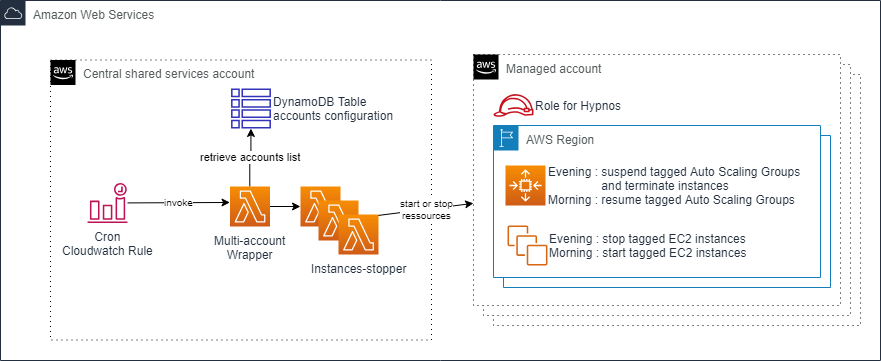
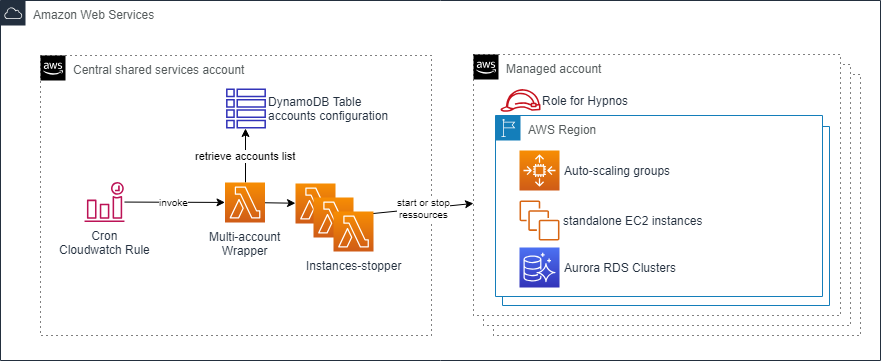
add support of Aurora RDS clusters

diff --git a/hypnos-central.py b/hypnos-central.py
@@ -29,6 +29,7 @@ def lambda_handler(event, context):
         print("Number of autoscalings concerned by instance termination : %s" % (len(asgNameListToStart)))
         print("AutoScalingGroups concerned by instance termination  : %s" % (asgNameListToStart))
         returnCode = resumeAsgList(session, asgNameListToStart)
+
         # start all single instances tagged to running
         instanceIdListToStart = retrieveTaggedInstancesList(session, tag_key = 'WorkingHoursState', tag_value = 'running')
         if len(instanceIdListToStart) > 0:
@@ -38,11 +39,15 @@ def lambda_handler(event, context):
                 returnCode=False
             else:
                 print("No EC2 instance to start.")
+
+        # start all RDS clusters tagged to started
+        rdsClusterListToStart = listTaggedRdsClusters(session, tag_key = 'WorkingHoursState', tag_value = 'running')
+        startRdsClusters(session, rdsClusterListToStart)
     elif action == "stop":
         # suspends tagged ASG activity and terminates their linked instances
         asgNameListToStop = retreiveTaggedAsgList(session, tag_key = 'WorkingHoursState', tag_value = 'stopped')
-        returnCode=suspendAsgList(session, asgNameList)
-        instancesToTerminate = retreiveInstancesToTerminateList(session, asgNameList)
+        returnCode=suspendAsgList(session, asgNameListToStop)
+        instancesToTerminate = retreiveInstancesToTerminateList(session, asgNameListToStop)
         # terminate instances linked to a concerned autoscaling group
         if len(instancesToTerminate) > 0:
             print("Terminating %s instances" % (len(instancesToTerminate)))
@@ -51,7 +56,8 @@ def lambda_handler(event, context):
                 returnCode=False
         else:
             print("No EC2 instance to terminate.")
-        # stop all single instances tagged to stopped
+
+        # stop all single EC2 instances tagged to stopped
         instanceIdListToStop = retrieveTaggedInstancesList(session, tag_key = 'NonWorkingHoursState', tag_value = 'stopped')
         if len(instanceIdListToStop) > 0:
             print("Number of EC2 instances to stop: %s " % (len(instanceIdListToStop)))
@@ -60,16 +66,26 @@ def lambda_handler(event, context):
                 returnCode=False
         else:
             print("No EC2 instance to stop.")
+
+        # stop all RDS clusters tagged to stopped
+        rdsClusterListToStop = listTaggedRdsClusters(session, tag_key = 'NonWorkingHoursState', tag_value = 'stopped')
+        stopRdsClusters(session, rdsClusterListToStop)
     elif action == "list":
         # dryrun only
         asgNameListToStart = retreiveTaggedAsgList(session, tag_key = 'WorkingHoursState', tag_value = 'running')
         asgNameListToStop = retreiveTaggedAsgList(session, tag_key = 'NonWorkingHoursState', tag_value = 'stopped')
-        instanceIdListToStart = retrieveTaggedInstancesList(session, tag_key = 'WorkingHoursState', tag_value = 'running')
-        instanceIdListToStop = retrieveTaggedInstancesList(session, tag_key = 'NonWorkingHoursState', tag_value = 'stopped')
         print("%s autoscaling groups concerned by NonWorkingHours stop : %s" % (len(asgNameListToStop), asgNameListToStop))
         print("%s autoscaling groups concerned by WorkingHours start : %s" % (len(asgNameListToStart), asgNameListToStart))
+
+        instanceIdListToStart = retrieveTaggedInstancesList(session, tag_key = 'WorkingHoursState', tag_value = 'running')
+        instanceIdListToStop = retrieveTaggedInstancesList(session, tag_key = 'NonWorkingHoursState', tag_value = 'stopped')
         print("%s EC2 instances concerned for NonWorkingHours stop : %s" % (len(instanceIdListToStop), instanceIdListToStop))
         print("%s EC2 instances concerned for WorkingHours start : %s" % (len(instanceIdListToStart), instanceIdListToStart))
+
+        rdsClusterListToStart = listTaggedRdsClusters(session, tag_key = 'WorkingHoursState', tag_value = 'running')
+        rdsClusterListToStop = listTaggedRdsClusters(session, tag_key = 'NonWorkingHoursState', tag_value = 'stopped')
+        print("%s RDS clusters concerned for NonWorkingHours stop : %s" % (len(rdsClusterListToStop), extractIdentifiersFromRdsClusterList(rdsClusterListToStop)))
+        print("%s RDS clusters concerned for WorkingHours start : %s" % (len(rdsClusterListToStart), extractIdentifiersFromRdsClusterList(rdsClusterListToStart)))
     return {
         'Return status' : returnCode
     }
@@ -131,25 +147,23 @@ def retreiveTaggedAsgList(session, tag_key = 'none', tag_value = 'none'):
 
     client = session.client('autoscaling')
     paginator = client.get_paginator('describe_auto_scaling_groups')
-    page_iterator = paginator.paginate(PaginationConfig={'PageSize': 100})
+    page_iterator = paginator.paginate()
 
     asgNameList=[]
     filtered_asgs = page_iterator.search('AutoScalingGroups[] | [?contains(Tags[?Key==`{}`].Value, `{}`)]'.format(tag_key,tag_value))
     for asg in filtered_asgs:
       asgNameList.append(asg['AutoScalingGroupName'])
-
     return asgNameList
 
 def retreiveAllAsgList(session):
 
     client = session.client('autoscaling')
-    response = client.describe_auto_scaling_groups(MaxRecords=100)
-    as_groups = response.get('AutoScalingGroups')
+    paginator = client.get_paginator('describe_auto_scaling_groups')
+    asg_iterator = paginator.paginate()
 
     asgNameList=[]
-    for asg in as_groups:
+    for asg in asg_iterator:
         asgNameList.append(asg.get('AutoScalingGroupName'))
-        
     return asgNameList
 
 def retreiveInstancesToTerminateList(session, asgNameList):
@@ -192,9 +206,9 @@ def stopInstances(session, ec2instanceIds):
     # Pay attention here because using filter with empty list will return all the instances !!!
     if ec2instanceIds:
         ec2 = session.resource('ec2')
-        print("Request to stop following instance Ids : %s" %(ec2instanceIds))
-        filtered_instances=ec2.instances.filter(InstanceIds=ec2instanceIds)
-        filtered_instances.stop()
+        print("Request to stop the following instances : %s" %(ec2instanceIds))
+        runningInstances = ec2.instances.filter(InstanceIds=ec2instanceIds, Filters=[{'Name': 'instance-state-name', 'Values': ['running']}])
+        runningInstances.stop()
     else:
         print("No instance to stop")
 
@@ -203,18 +217,18 @@ def startInstances(session, ec2instanceIds):
     # Pay attention here because using filter with empty list will return all the instances !!!
     if ec2instanceIds:
         ec2 = session.resource('ec2')
-        print("Request to start following instance Ids : %s" %(ec2instanceIds))
-        filtered_instances=ec2.instances.filter(InstanceIds=ec2instanceIds)
-        filtered_instances.start()
+        print("Request to start the following instances : %s" %(ec2instanceIds))
+        stoppedInstances=ec2.instances.filter(InstanceIds=ec2instanceIds, Filters=[{'Name': 'instance-state-name', 'Values': ['stopped']}])
+        stoppedInstances.start()
     else:
-        print("No instance to stop")
+        print("No instance to start")
 
 def terminateInstances(session, ec2instanceIds):
 
     # Pay attention here because using filter with empty list will return all the instances !!!
     if ec2instanceIds:
         ec2 = session.resource('ec2')
-        print("Request to terminate following instance Ids : %s" %(ec2instanceIds))
+        print("Request to terminate the following instance Ids : %s" %(ec2instanceIds))
         filtered_instances=ec2.instances.filter(InstanceIds=ec2instanceIds)
         filtered_instances.terminate()
     else:
@@ -229,3 +243,46 @@ def isExistsAsg(session, asgName):
     else:
         return True
 
+def stopRdsClusters(session, rdsClusters):
+    client = session.client('rds')
+    for rdsCluster in rdsClusters:
+        # it is not accepted to stop a cluster in a Status not Available
+        if rdsCluster['Status'] == "Available":
+            print("Stopping %s RDS cluster" % (rdsCluster['DBClusterIdentifier']))
+            response = client.stop_db_cluster(DBClusterIdentifier=rdsCluster['DBClusterIdentifier'])
+        else:
+            print("%s RDS cluster not in Available status => no stop action" % (rdsCluster['DBClusterIdentifier']))
+
+def startRdsClusters(session, rdsClusters):
+    client = session.client('rds')
+    for rdsCluster in rdsClusters:
+        # it is not accepted to start a cluster in a Status not Stopped
+        if rdsCluster['Status'] == "Stopped":
+            print("Starting %s RDS cluster" % (rdsCluster['DBClusterIdentifier']))
+            response = client.start_db_cluster(DBClusterIdentifier=rdsCluster['DBClusterIdentifier'])
+        else:
+            print("%s RDS cluster not in Stopped status => no start action" % (rdsCluster['DBClusterIdentifier']))
+
+def filterRdsClustersByStatus(rdsClusters, Status="none"):
+    filteredRdsCluster=[]
+    for rdsCluster in rdsClusters:
+        if rdsCluster['Status'] == Status:
+            filteredRdsClusterList.append(rdsCluster)
+    return filteredRdsClusterList
+
+def listTaggedRdsClusters(session, tag_key = 'none', tag_value = 'none'):
+
+    client = session.client('rds')
+    dbs = client.describe_db_clusters()
+
+    rdsIdentifierList=[]
+    for db in dbs['DBClusters']:
+        tagresponse = client.list_tags_for_resource(ResourceName=db['DBClusterArn'])
+        taglist = tagresponse['TagList']
+        for tag in taglist:
+            if tag['Key'] == tag_key and tag['Value'] == tag_value:
+                rdsIdentifierList.append(db)
+    return rdsIdentifierList
+
+def extractIdentifiersFromRdsClusterList(rdsClusters):
+    return [ rdsCluster['DBClusterIdentifier'] for rdsCluster in rdsClusters ]

diff --git a/hypnos-wrapper.py b/hypnos-wrapper.py
@@ -57,7 +57,7 @@ def lambda_handler(event, context):
         end=datetime.strptime(endWorkingHoursUtc,'%H:%M')
         now_string=datetime.now().strftime('%H:%M')
         now=datetime.strptime(now_string,'%H:%M')
-        delta=timedelta(minutes=5)
+        delta=timedelta(minutes=15)
         
         # determine the action to have depending on the incoming parameters
         print("Determining action for accountId %s for now at %s with begin %s and end %s (UTC hours)" % (accountId, now.strftime('%H:%M'), begin.strftime('%H:%M'), end.strftime('%H:%M')))

diff --git a/README.md b/README.md
@@ -9,16 +9,14 @@ AWS Hypnos is capable to stop AWS resources during non-business hours for costs 
 More precisely, at evening :
 - suspends auto-scaling groups activity and terminates the instances
 - stops standalone EC2 instances
+- stops Aurora RDS clusters
 
 In the morning of business day :
 - resumes the auto-scaling groups activity, which triggers the new instances creation
 - starts standalone EC2 instances 
+- starts Aurora RDS clusters
 
-Hypnos handles all the regions of the target accounts. It works for multiple accounts : just add them in the file stored in S3.
-
-It is also capable of two modes :
-- all : handles of ressources of the account
-- taggued : only looks for tagged ressources and avoid the other ones 
+Hypnos works for a list of AWS accounts and will handle all the regions of the account.
 
 ## Content
 
@@ -51,7 +49,6 @@ The information per item in the DynamoDB table must be :
 The Lambda needs one parameter :
 - mode : use "run" to perforn actions or "dryrun" to just list actions and concerned ressources.
 
-
 ### Central Lambda
 
 The business lambda assumes a role on the external child account and performs the stop activity.
@@ -63,11 +60,13 @@ The Lambda needs three parameters :
 
 For a stop action, Hypnos Lambda :
 - looks for tagged autoscaling groups, suspends them and terminates all the attached instances
-- looks for tagged EC2 instances and stops them
+- looks for tagged EC2 instances in "running" status and stops them
+- looks for tagged Aurora RDS clusters in "Available" status and them
 
 For a start action, Hypnos Lambda :
 - looks for concerned autoscaling groups and resumes them. Then, the ASG is launching instances corresponding to the Desired capacity setting
-- looks for tagged EC2 instances and starts them
+- looks for tagged EC2 instances in "stopped" status and starts them
+- looks for tagged Aurora RDS clusters in "stopped" status and them
 
 For a list action, Hypnos Lambda :
 - only displays concerned ressources without any action (dryrun mode)
@@ -81,11 +80,11 @@ In the child account point of view, there is no business logic to develop. The o
 
 The NonWorkingHoursState tag values could be :
 - running : keep instances running during non-business hours
-- stopped : for auto-scaling groups, terminates the attached instances, for standalone instances, stop them during non-business hours
+- stopped : for auto-scaling groups, terminates the attached instances, for standalone instances or Aurora clusters, stop them during non-business hours
 
 The WorkingHoursState tag values could be :
 - running : start instances at the beginning of business hours
-- stopped : for auto-scaling groups and standalone instances keep them stopped at the beginning of business hours
+- stopped : for auto-scaling groups, standalone instances and Aurora clusters keep them stopped at the beginning of business hours
 
 It is a good pratice to define different behaviours depending on the environment. With Cloudformation, use mappings :
 
@@ -110,5 +109,4 @@ And retreive the value later for the tag value :
 
 ## Limitations
 
-- only supports up to 100 autoscaling groups per account
-
+- the Boto version implemented in Lambda is actually not supporting some start/stop RDS methods and triggers issues like "'RDS' object has no attribute 'stop_db_cluster': AttributeError" is that case, you will have to add the latest Boto layer in the Lambda package (https://docs.aws.amazon.com/lambda/latest/dg/lambda-python-how-to-create-deployment-package.html)
